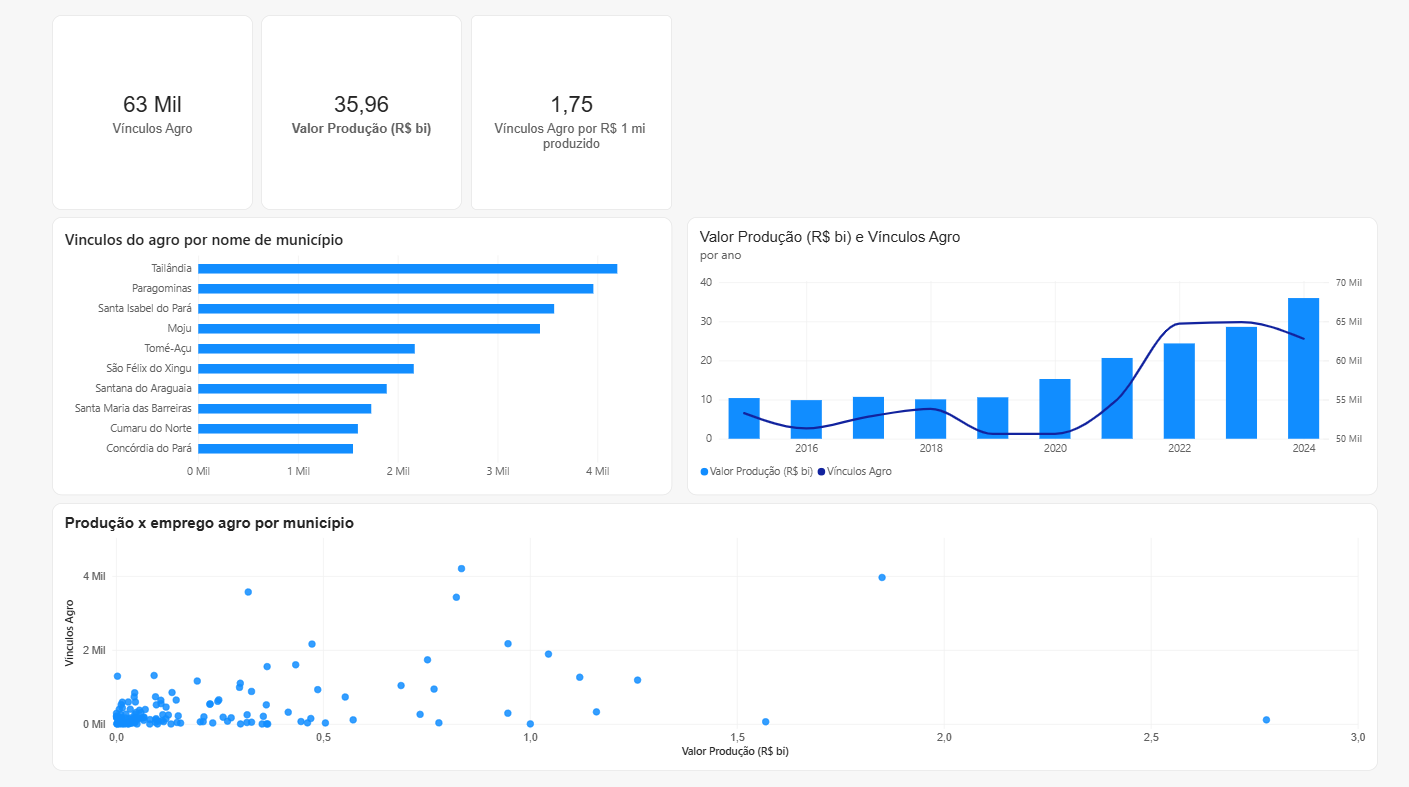
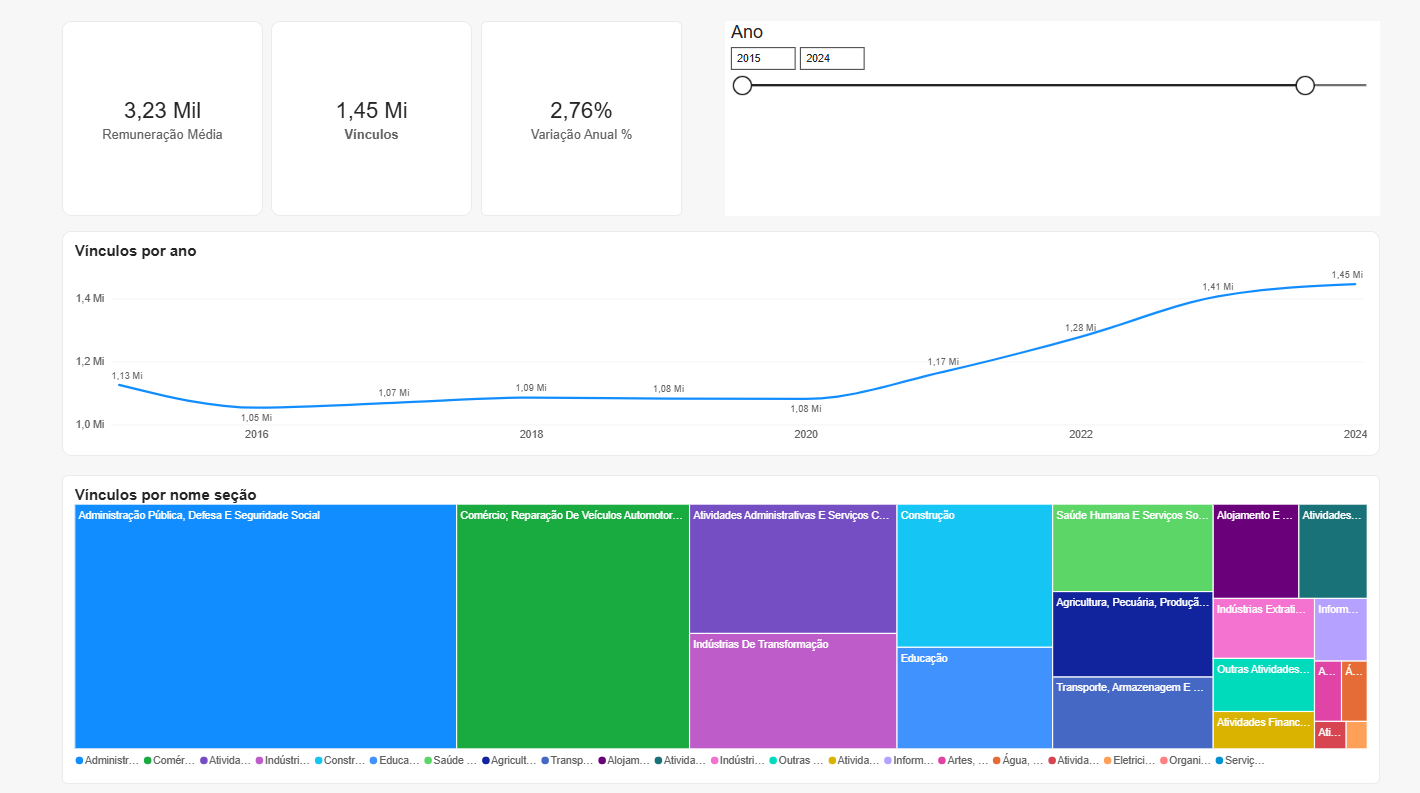
README voltado para clientes e correção dos prints trocados
- README reescrito com foco em quem quer contratar: resultado, achados, o que foi entregue
- Detalhes técnicos movidos para docs/metodologia.md
- pagina1.png e pagina3.png estavam com as imagens trocadas

diff --git a/README.md b/README.md
@@ -1,80 +1,41 @@
-# Emprego formal no Pará (RAIS) — pipeline de dados com dbt, BigQuery e Power BI
+# Emprego formal no Pará (RAIS): do dado público ao dashboard
 
-Projeto de Analytics Engineering: do dado bruto público até um dashboard, com modelagem dimensional, testes e documentação.
+Peguei uma base pública enorme (478 GB de microdados da RAIS), tratei, organizei e transformei num dashboard que responde a uma pergunta de negócio. **Custo de infraestrutura: zero.**
 
 **[Ver o case completo](https://lanybcr.github.io/rais-para-analytics/)**, a história do projeto em uma página.
 
-> **Pergunta guia:** como evoluiu o emprego formal nos municípios do Pará na última década, por setor (CNAE) e escolaridade, e onde o agro gerou mais vagas formais?
+> **Pergunta:** como evoluiu o emprego formal nos municípios do Pará na última década, por setor e escolaridade, e onde o agro gerou mais vagas formais?
 
-## Dashboard
+## O dashboard
 
 | Visão geral | Setor e escolaridade | Agro no Pará |
 |---|---|---|
-| ![Página 1](docs/img/pagina1.png) | ![Página 2](docs/img/pagina2.png) | ![Página 3](docs/img/pagina3.png) |
+| ![Visão geral](docs/img/pagina1.png) | ![Setor e escolaridade](docs/img/pagina2.png) | ![Agro no Pará](docs/img/pagina3.png) |
 
-O arquivo do dashboard está em [`dashboard/rais_para.pbix`](dashboard/rais_para.pbix) (abre no Power BI Desktop, gratuito). As medidas DAX estão documentadas em [`docs/medidas_dax.md`](docs/medidas_dax.md).
+## O que os dados mostraram
 
-## Principais achados
+- **O emprego formal no Pará cresceu de 1,13 mi (2015) para 1,45 mi (2024) vínculos**, com queda em 2016 e alta de 2,76% em 2024.
+- **Produção alta não significa emprego formal alto.** Igarapé-Miri (açaí, R$ 13,9 bi em 10 anos) tinha só 60 vínculos no agro em 2024; Paragominas (grãos e pecuária, R$ 11,1 bi) tinha 3.960.
+- **O valor da produção agrícola cresceu muito mais que o emprego:** de R$ 10 bi para R$ 36 bi, enquanto os vínculos agro foram de 53 mil para 63 mil.
+- **Onde o agro mais abriu vagas formais (2015–2024):** Santa Isabel do Pará (+2.325), Paragominas (+1.004) e Santana do Araguaia (+714).
 
-- **O emprego formal no Pará cresceu de 1,13 mi (2015) para 1,45 mi (2024) vínculos**, com queda em 2016 (1,05 mi) e variação de +2,76% em 2024 sobre 2023. Remuneração média de dezembro de 2024: cerca de R$ 3,23 mil (valores nominais).
-- **A escolaridade mais comum é o ensino médio completo, e o ensino superior completo vem ganhando espaço.**
-- **O agro tem 63 mil vínculos formais em 2024** (eram cerca de 53 mil em 2015), enquanto o valor da produção agrícola (lavouras) foi de cerca de R$ 10 bi para R$ 36 bi. Ou seja, o valor cresceu muito mais do que o emprego com carteira assinada.
-- **Maiores ganhos de vagas formais no agro entre 2015 e 2024:** Santa Isabel do Pará (+2.325), Paragominas (+1.004), Santana do Araguaia (+714), Santa Maria das Barreiras (+696) e Garrafão do Norte (+616).
-- **Produção alta não significa emprego formal alto.** Igarapé-Miri (açaí, R$ 13,9 bi acumulados 2015–2024) tinha só 60 vínculos agro em 2024, e Medicilândia (cacau, R$ 8,6 bi) 111. Já Paragominas (R$ 11,1 bi) tinha 3.960 e Dom Eliseu (R$ 6,7 bi) 1.263. O agro que gera vaga formal é o de grãos e pecuária; açaí e cacau são, em boa parte, agricultura familiar e extrativismo, com pouco registro formal.
+## O que foi entregue
 
-## Arquitetura
+- **Extração** de bases públicas no BigQuery (RAIS, produção agrícola do IBGE, cadastro de municípios), filtrando só o necessário.
+- **Tratamento e modelagem** com dbt: dados organizados em modelo estrela (fatos e dimensões), prontos para análise.
+- **Controle de qualidade:** 24 testes automáticos que conferem duplicidades, campos vazios e ligações entre tabelas.
+- **Dashboard em Power BI** com 3 páginas e medidas documentadas ([`docs/medidas_dax.md`](docs/medidas_dax.md)).
+- **Custo zero:** BigQuery gratuito, trava de 10 GB por consulta e Power BI em modo Import.
+- **Transparência:** limitações dos dados declaradas (valores sem correção da inflação, só emprego formal etc.).
 
-```
-Base dos Dados (BigQuery público)          dbt (BigQuery)                         Power BI
- br_me_rais.microdados_vinculos  ─┐   staging (views)      marts (tabelas)
- br_bd_diretorios_brasil         ─┼─► stg_rais_vinculos ─► fct_vinculos ──────┐
- br_ibge_pam (lavouras)          ─┘   stg_municipio     ─► dim_municipio      ├─► modo Import
-                                      stg_cnae          ─► dim_cnae           │   (relações
-                                      stg_pam_lavoura   ─► fct_agro_municipio_ano   dimensão → fato)
-                                                           dim_escolaridade, dim_tempo
-```
+**Ferramentas:** SQL · BigQuery · dbt · Power BI (DAX) · Git
 
-### Modelo estrela
+## Posso fazer o mesmo com os seus dados
 
-- `fct_vinculos`: ano × município × classe CNAE × escolaridade (~420 mil linhas). Só vínculos ativos em 31/12.
-- `fct_agro_municipio_ano`: ano × município, com vínculos agro (CNAE divisões 01, 02 e 03) e produção agrícola (PAM/IBGE).
-- Dimensões: `dim_municipio` (144), `dim_cnae` (672), `dim_escolaridade` (12), `dim_tempo` (2015–2025).
+O mesmo processo serve para planilhas, sistemas internos ou bases públicas (RAIS, IBGE, CAGED, DataSUS): organizar os dados, garantir que estão corretos e entregar um painel que responde às suas perguntas.
 
-### Testes
+## Para quem quer ver por dentro
 
-24 testes de dados (`not_null`, `unique`, `relationships` e testes singulares de granularidade única, em `rais_para/tests/`). Staging não tem testes de propósito: testar uma view releria a tabela fonte de 478 GB.
-
-## Como rodar
-
-Python 3.12, Google Cloud SDK e um projeto BigQuery (o sandbox gratuito basta). Passo a passo completo em [`docs/como_rodar.md`](docs/como_rodar.md).
-
-```bash
-pip install -r requirements.txt
-cd rais_para && dbt run --profiles-dir . && dbt test --profiles-dir .
-```
-
-## Plano gratuito
-
-Tudo roda sem cobrança: BigQuery sandbox, trava de 10 GB por consulta, filtro por UF e Power BI em modo Import. As **tabelas do sandbox expiram em 60 dias**; para recriar, basta rodar `dbt run` de novo. O GitHub não é afetado.
-
-## Limitações
-
-- **Vínculos são um estoque (foto em 31/12), não um fluxo.** Não são somados entre anos: as medidas usam o último ano do filtro. Não mostram admissões e demissões.
-- **Salários em reais nominais** (sem correção pela inflação), então comparações entre anos superestimam o ganho real.
-- **A produção (PAM/IBGE) vai só até 2024 e cobre apenas lavouras** (temporária e permanente). Pecuária, extrativismo e silvicultura ficam de fora. Por isso o dashboard mostra 2015–2024; o 2025 existe na RAIS mas foi excluído dos filtros.
-- **"Agro" na RAIS** = CNAE divisões 01 (agricultura e pecuária), 02 (silvicultura) e 03 (pesca e aquicultura).
-- A RAIS cobre apenas emprego **formal**; a informalidade, importante no agro paraense, não aparece.
-
-## Fontes
-
-- [Base dos Dados](https://basedosdados.org): `br_me_rais`, `br_ibge_pam`, `br_bd_diretorios_brasil`.
-- RAIS: Ministério do Trabalho e Emprego. PAM: IBGE.
-
-## Estrutura do repositório
-
-```
-rais_para/        projeto dbt (models/staging, models/marts, tests)
-dashboard/        arquivo do Power BI
-docs/             medidas DAX e imagens do dashboard
-requirements.txt  versões do dbt
-```
+- [Metodologia, modelo de dados, testes e limitações](docs/metodologia.md)
+- [Como rodar o projeto](docs/como_rodar.md)
+- Código dbt em [`rais_para/`](rais_para/) · arquivo do dashboard em [`dashboard/rais_para.pbix`](dashboard/rais_para.pbix)

diff --git a/docs/metodologia.md b/docs/metodologia.md
@@ -1,0 +1,36 @@
+# Metodologia e detalhes técnicos
+
+## Arquitetura
+
+```
+Base dos Dados (BigQuery público)          dbt (BigQuery)                         Power BI
+ br_me_rais.microdados_vinculos  ─┐   staging (views)      marts (tabelas)
+ br_bd_diretorios_brasil         ─┼─► stg_rais_vinculos ─► fct_vinculos ──────┐
+ br_ibge_pam (lavouras)          ─┘   stg_municipio     ─► dim_municipio      ├─► modo Import
+                                      stg_cnae          ─► dim_cnae           │   (relações
+                                      stg_pam_lavoura   ─► fct_agro_municipio_ano   dimensão → fato)
+                                                           dim_escolaridade, dim_tempo
+```
+
+## Modelo estrela
+
+- `fct_vinculos`: ano × município × classe CNAE × escolaridade (~420 mil linhas). Só vínculos ativos em 31/12.
+- `fct_agro_municipio_ano`: ano × município, com vínculos agro (CNAE divisões 01, 02 e 03) e produção agrícola (PAM/IBGE).
+- Dimensões: `dim_municipio` (144), `dim_cnae` (672), `dim_escolaridade` (12), `dim_tempo` (2015–2025).
+
+## Testes
+
+24 testes de dados (`not_null`, `unique`, `relationships` e testes singulares de granularidade única, em `rais_para/tests/`). Staging não tem testes de propósito: testar uma view releria a tabela fonte de 478 GB.
+
+## Limitações
+
+- **Vínculos são um estoque (foto em 31/12), não um fluxo.** Não são somados entre anos: as medidas usam o último ano do filtro. Não mostram admissões e demissões.
+- **Salários em reais nominais** (sem correção pela inflação), então comparações entre anos superestimam o ganho real.
+- **A produção (PAM/IBGE) vai só até 2024 e cobre apenas lavouras** (temporária e permanente). Pecuária, extrativismo e silvicultura ficam de fora. Por isso o dashboard mostra 2015–2024; o 2025 existe na RAIS mas foi excluído dos filtros.
+- **"Agro" na RAIS** = CNAE divisões 01 (agricultura e pecuária), 02 (silvicultura) e 03 (pesca e aquicultura).
+- A RAIS cobre apenas emprego **formal**; a informalidade, importante no agro paraense, não aparece.
+
+## Fontes
+
+- [Base dos Dados](https://basedosdados.org): `br_me_rais`, `br_ibge_pam`, `br_bd_diretorios_brasil`.
+- RAIS: Ministério do Trabalho e Emprego. PAM: IBGE.
